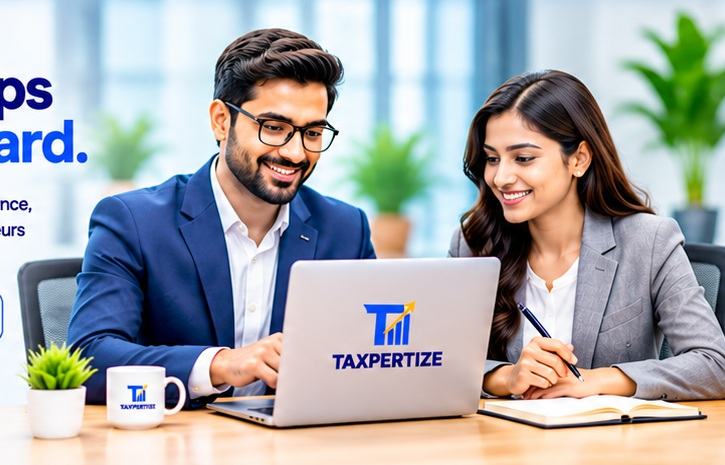
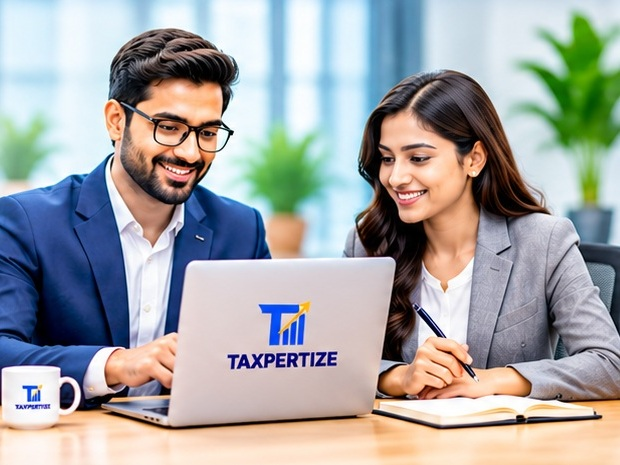
Add files via upload
update

diff --git a/styles.css b/styles.css
@@ -194,3 +194,16 @@ h1 span,h2 span{color:#0865d8}
 .chatbot-note{flex:0 0 auto}
 @media(max-width:900px){.hero-grid{grid-template-columns:minmax(0,1fr) minmax(0,1fr);gap:16px}.hero-photo-wrap{max-height:390px}}
 @media(max-width:680px){.hero-grid{grid-template-columns:1fr;gap:8px}.hero-photo-wrap{height:auto;aspect-ratio:725/465;max-height:none;margin-top:12px}.chatbot{right:10px;bottom:82px;max-height:min(380px,calc(100vh - 100px))}.chatbot-brand img{width:72px;height:64px;flex-basis:72px}}
+
+/* Final size correction: make the team photo and assistant portrait prominent. */
+.hero-grid{grid-template-columns:minmax(0,.88fr) minmax(0,1.12fr);gap:24px;min-height:520px}
+.hero-photo-wrap{width:100%;height:auto;min-height:0;aspect-ratio:610/465;max-height:540px;overflow:hidden;border-radius:16px;background:#eaf4fb;box-shadow:0 18px 48px rgba(0,0,0,.18)}
+.hero-photo-wrap .hero-professional{display:block;width:100%;height:100%;object-fit:cover;object-position:center center;border-radius:16px}
+.chatbot{width:min(440px,calc(100vw - 28px))}
+.chatbot-head{min-height:118px;padding:12px 14px;gap:10px}
+.chatbot-brand{gap:12px}
+.chatbot-brand img{width:112px;height:100px;flex:0 0 112px;object-fit:contain;object-position:center center;border:0;border-radius:5px;background:transparent}
+.chatbot-brand strong{font-size:14px;line-height:1.35}
+.chatbot-brand small{font-size:11px;line-height:1.4}
+@media(max-width:900px){.hero-grid{grid-template-columns:minmax(0,1fr) minmax(0,1fr);gap:16px;min-height:450px}.hero-photo-wrap{max-height:450px}}
+@media(max-width:680px){.hero-grid{grid-template-columns:1fr;gap:8px;min-height:0}.hero-photo-wrap{aspect-ratio:610/465;max-height:none;margin-top:14px}.chatbot-head{min-height:104px}.chatbot-brand img{width:92px;height:84px;flex-basis:92px}}

diff --git a/service-worker.js b/service-worker.js
@@ -1,9 +1,3 @@
-// TAXPERTIZE cache refresh: 2026-v20261031b-31
-
-self.addEventListener("install", () => {
-  self.skipWaiting();
-});
-
-self.addEventListener("activate", event => {
-  event.waitUntil(self.clients.claim());
-});
+// TAXPERTIZE cache refresh: 2026-v20261031c
+self.addEventListener('install', () => self.skipWaiting());
+self.addEventListener('activate', event => event.waitUntil(self.clients.claim()));
